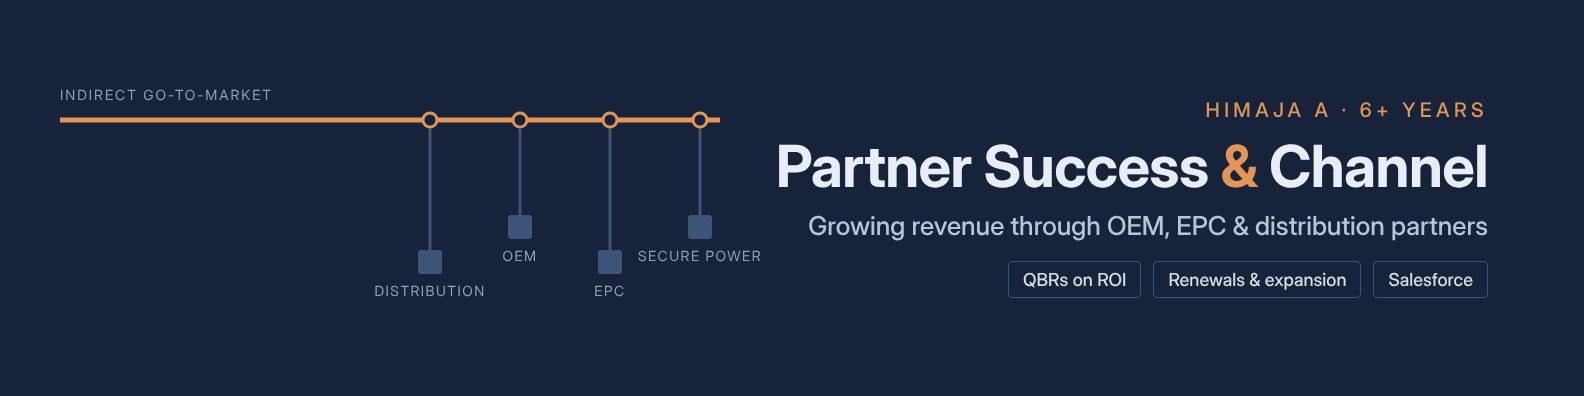
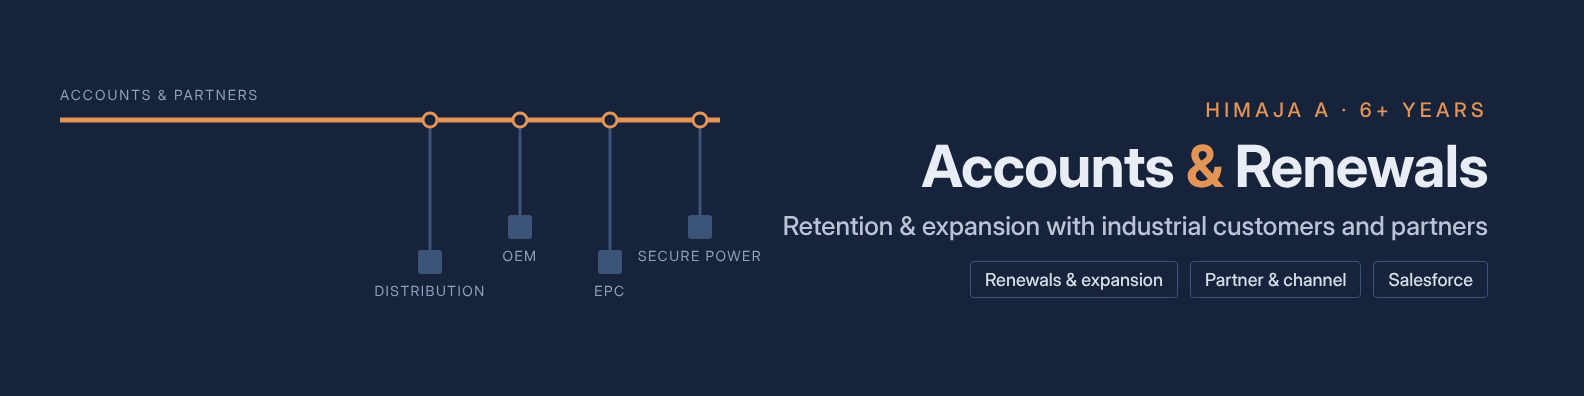
Update for renewals focus

diff --git a/index.html b/index.html
@@ -3,10 +3,10 @@
 <head>
 <meta charset="utf-8">
 <meta name="viewport" content="width=device-width, initial-scale=1, viewport-fit=cover">
-<meta name="description" content="Himaja A - Partner Success and Channel Manager. 6+ years managing OEM, EPC and distribution partners. Ex-Schneider Electric.">
+<meta name="description" content="Himaja A - Account Manager, Renewals and Partner Success. 6+ years with industrial customers, OEM, EPC and distribution partners. Ex-Schneider Electric.">
 <meta property="og:type" content="website">
-<meta property="og:title" content="Himaja A | Partner Success &amp; Channel Manager">
-<meta property="og:description" content="Owned ~$11M in annual channel targets at Schneider Electric. Case studies, results and career.">
+<meta property="og:title" content="Himaja A | Account Manager, Renewals &amp; Partner Success">
+<meta property="og:description" content="Renewals and expansion (+15% revenue), ~$11M account book at Schneider Electric. Case studies, results and career.">
 <meta property="og:image" content="https://himaja1311.github.io/banner.png">
 <meta property="og:url" content="https://himaja1311.github.io/">
 <meta name="twitter:card" content="summary_large_image">
@@ -122,10 +122,10 @@ footer{font-size:.85rem;color:var(--muted);padding-left:28px}
 <div class="wrap">
 
 <header class="hero">
-  <span class="eyebrow">Portfolio · Partner Success &amp; Channel</span>
+  <span class="eyebrow">Portfolio · Account Management, Renewals &amp; Partners</span>
   <h1>Himaja A</h1>
-  <p class="role">Partner Success &amp; Channel Manager · Indirect Go-To-Market · Technical Accounts</p>
-  <p class="lede">I grow revenue through partners. Six years across channel, OEM, EPC and distribution accounts, most recently running four parallel targets at Schneider Electric. An electrical engineer by training, so I can talk switchgear with engineers and ROI with buyers.</p>
+  <p class="role">Account Manager · Renewals &amp; Expansion · Partner &amp; Channel Success · Industrial Accounts</p>
+  <p class="lede">I help customers and partners get more value from what they buy, so they renew and grow. Six years across industrial accounts, channel, OEM, EPC and distribution, most recently running four parallel targets and closing renewal and expansion deals at Schneider Electric. An electrical engineer by training, so I can talk switchgear with engineers and ROI with buyers.</p>
   <div class="chips">
     <span class="chip">India · Remote / Hybrid</span>
     <span class="chip">B.Tech EEE</span>
@@ -244,7 +244,7 @@ footer{font-size:.85rem;color:var(--muted);padding-left:28px}
   </div>
 </section>
 
-<footer>Figures are from my roles as listed. Open to Partner Success, Channel Manager and Partner Account Manager roles.</footer>
+<footer>Figures are from my roles as listed. Open to Account Manager (Renewals), Customer Success, Partner Success and Channel Manager roles in India and APAC.</footer>
 </div>
 
 <script>
